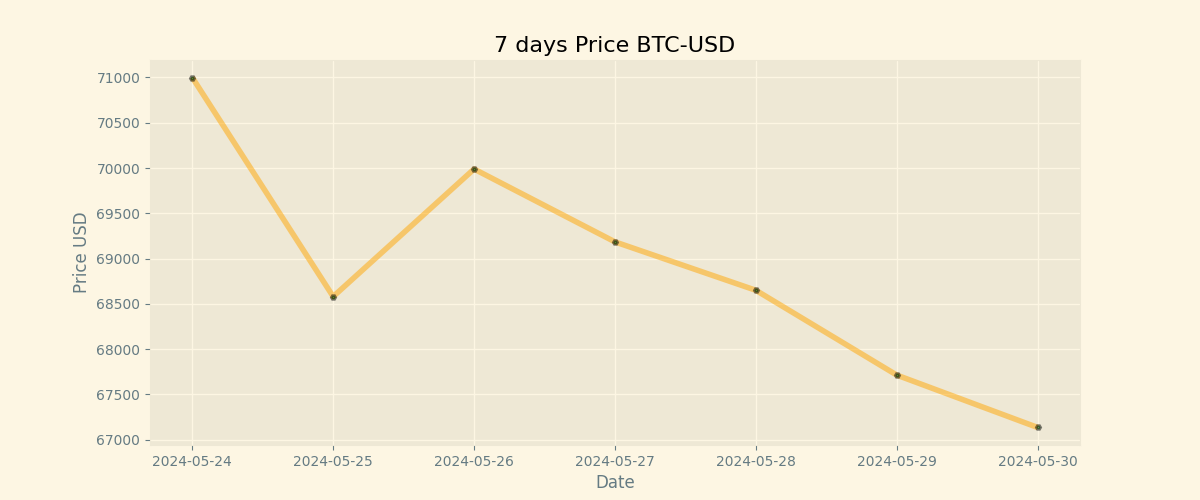
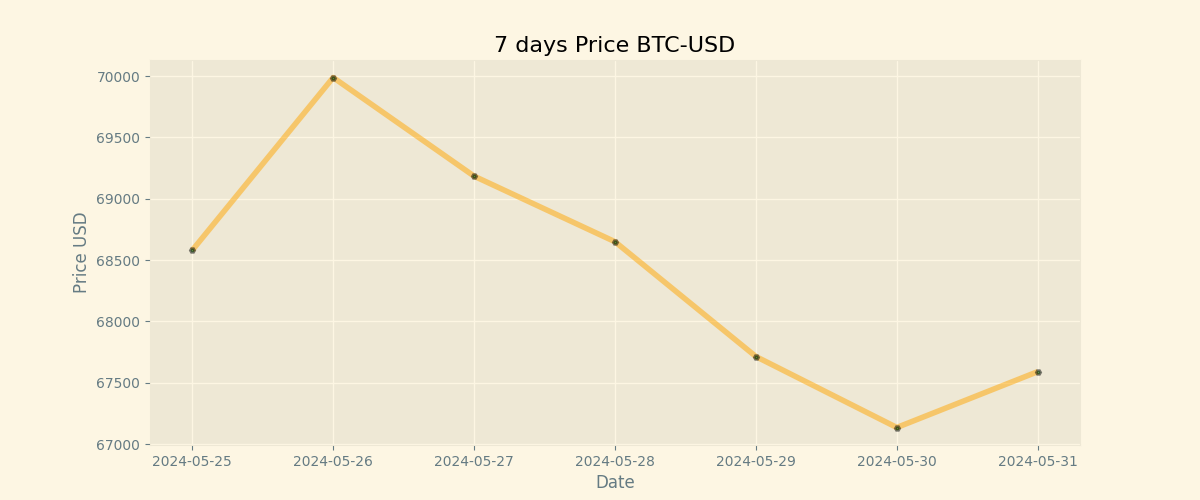
Duty Updates 2024-05-31

diff --git a/README.md b/README.md
@@ -9,8 +9,8 @@
 
 | Currency | Price           |
 | -------- | --------------- |
-| **BTC**  | **$ 67135.27** |
-| **ETH**  | **$ 3749.28** |
+| **BTC**  | **$ 67590.55** |
+| **ETH**  | **$ 3754.36** |
 
 ## BTC chart
 
